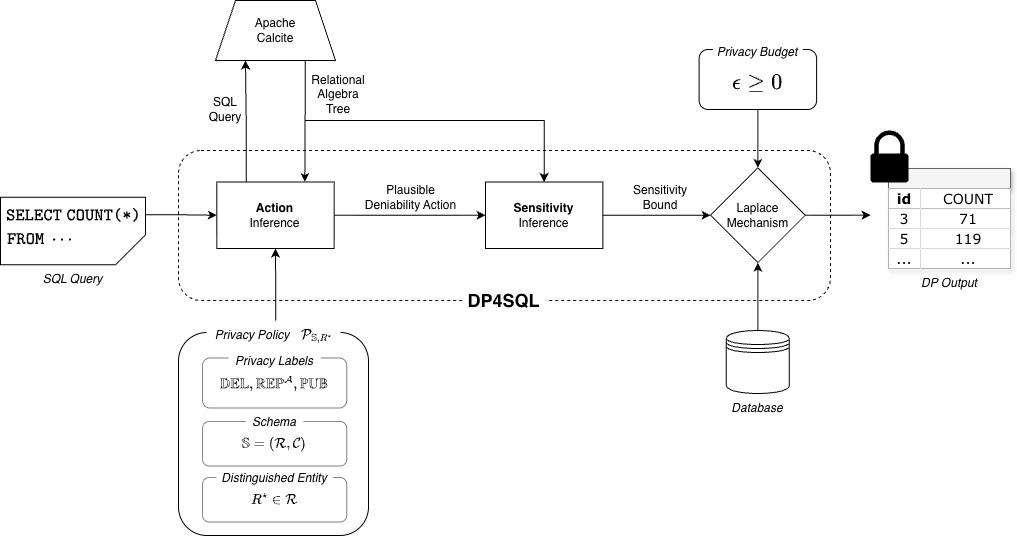
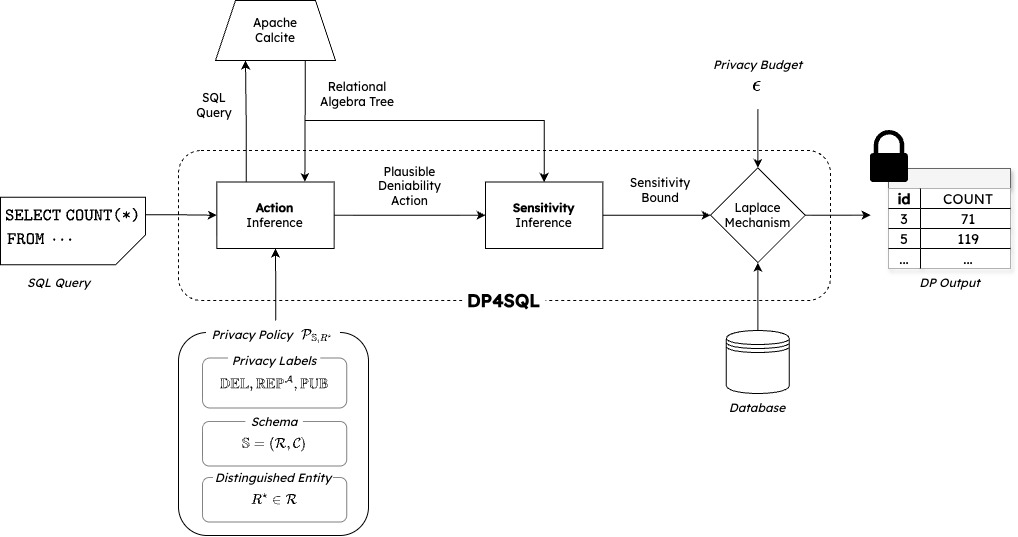
Update README

diff --git a/README.md b/README.md
@@ -1,15 +1,6 @@
 # DP4SQL
 
-This repository contains the artifact to reproduce the results presented in the paper 
-"DP4SQL: Differentially Private SQL with Flexible Privacy Policies".
-
-## Introduction
-
-DP4SQL is a differentially private SQL system that allows data curators to better customize the plausible deniability requirements for their relational databases. The user provides a SQL query, a privacy policy, and a privacy budget and DP4SQL computes a sufficient amount of noise that must be added to the query answer in order to satisfy $\epsilon$-differential privacy. We claim the following badges for the paper:
-
-- **Artifacts Available**: This atrifact is available permanently on Zenodo.
-- **Artifacts Evaluated** (Reusable): This artifact includes a built-in CLI and supports new schemas, queries, and privacy policies with the addition of just a few configuration files. See the [How to Reuse Beyond the Paper](#how-to-reuse-beyond-the-paper) section.
-- **Results Reproduced**: The results of the paper can be reproduced with this artifact. See the [How to Reproduce Results](#how-to-reproduce-results) section.
+DP4SQL is a differentially private SQL system that allows data curators to better customize the plausible deniability requirements for their relational databases. The user provides a SQL query, a privacy policy, and a privacy budget and DP4SQL computes a sufficient amount of noise that must be added to the query answer in order to satisfy $\epsilon$-differential privacy.
 
 ![image](architecture.jpg)
 
@@ -31,66 +22,9 @@ Alternatively, you may create a container from our Docker image which comes with
 docker pull casciand/dp4sql
 docker run -it casciand/dp4sql bash
 ```
+*Note: The image may not contain the latest updates.*
 
-## How to Reproduce Results
-
-The results of the case study (Section 8) and the TPC-H benchmark evaluation (Section 9) consist of global sensitivities and error distributions for each query for multiple privacy policies. The following shell scripts will regenerate these results. We have included configuration files for both the university and TPC-H schemas, privacy policies, and queries in this artifact.
-
-To reproduce the results from the case study, run
-
-```
-results/university.sh
-```
-
-To reproduce the results from the TPC-H evaluation, run
-
-```
-results/tpch.sh
-```
-
-Alternatively, you can reproduce the results directly with sbt
-
-```
-sbt "runMain CustomDP4SQL.Interface.QueryRunner src/main/resources/<schema>/config.yaml results/<schema>"
-```
-replacing `<schema>` with either "university" or "tpch".
-
-### Output
-
-For each query, DP4SQL outputs (1) a .csv file with the sensitivity for each privacy policy and (2) a .csv file with 50 noise samples for each privacy policy. The results will be written into the corresponding `results/university` and `results/tpch` directories. For example, `results/university/q1_sensitivity.csv` should look like
-
-```
-baseline1,360
-baseline2,792
-flex,240
-```
-
-and `results/university/q1_noise.csv` should look similar to
-
-```
-baseline1,83.0674652218098,-423.60851849226054,-288.8688599875297,-63.92622990966782,-315.7394433587932,21.686498649298432,56.557346164194854,358.64605373218177,277.5264363309026,140.1963618659992,-13.65969961319686,171.6512161329022,314.1887831192904,-502.6103120182816,-421.2925039419622,-648.5484475964354,-133.79052904047458,501.1745139267966,1216.804300303982,465.4517353794621,1405.5368547099781,601.4598805743996,27.086229868551346,244.29344114272624,-58.54648560894461,-87.29382930853393,-247.7246903046304,-980.8019443184879,201.90899405263485,40.70562343109878,250.20016964187138,1211.729287301483,-189.0897334358462,-37.69795741836771,274.8249593884004,-90.33099647415959,-88.65281205998149,665.9779691588346,-261.23556051237523,474.42038401623716,1342.144720325674,82.75019109635359,-115.28617393495847,180.33527280911898,-407.2020955820225,76.79545782467574,-573.4388540718492,231.0079327560549,-286.30476621595744,341.1630366747701
-baseline2,-733.6933665644121,1096.4946080957925,-2475.8327077895565,-500.9318706789012,23.18563556956579,1300.777226992643,54.72713981690339,1369.603589305693,-521.1332741527266,-323.80164050077224,-2264.843610521351,-509.83506710909927,523.3934704175674,467.4754781002984,-2831.147924114129,-448.9803731137849,-1341.5387542833755,-14.019939878349236,-62.378453875205416,-208.6848281424791,440.52996913241736,973.7843517106082,-1683.4999457415659,-2067.545516111776,-686.1846449234191,293.0851290186115,151.2524584287305,926.7053062963986,-1803.3193968399933,-649.6114679474477,-3516.296496762604,-1222.3477993752592,-218.52150360820858,-996.9844304776339,-193.56500773145888,2187.553479200061,-1250.5702314367488,2797.3102034427816,-13.055498838581412,-953.4055545593051,481.9187963253805,-260.3328872314126,-89.07978956956194,2324.7032739803226,-391.36457320007116,127.76926194485856,-2043.1051011892812,3330.069780768303,-211.72269588452284,-630.6287206569298
-flex,184.35634290717297,594.2428744293154,564.7925304718841,20.038134180133405,-379.88304771573354,-354.49414609228484,-440.7497089683576,-363.2249458443711,-107.43673146660385,506.4803385835038,-220.2446730386362,236.87628755822539,72.69792628498452,-56.17782944105488,539.1983481642811,-195.061386765267,23.281014798226842,27.779755523900505,313.63544737890345,76.49249771717827,293.01992075315576,-362.3198446014981,-46.41132096392419,-398.6792219349953,-470.5703553440461,192.69860424597886,-77.67501105187257,-206.39248696218425,288.8400654164171,366.3092545391848,467.7050894703357,55.699022602353494,-30.718121407389184,164.71374353416232,270.4266637565557,325.6781797567767,-294.928749696543,-286.1313688754309,750.2029714708727,98.16912300323696,33.243380817373136,55.325560843680925,-95.63023530762187,-121.05283202908647,-95.83648522118686,-227.36376129868904,18.61723744788842,36.8483905124813,-188.9632825940178,295.53262364562283
-```
-
-up to nondeterminism in exact noise values.
-
-### Reproducing Figures
-
-The Jupyter Notebook at ``results/generate_plots.ipynb`` was used to generate the sensitivity and
-error figures in the paper. These figures can be reproduced with
-
-```
-jupyter execute results/generate_plots.ipynb
-```
-
-which will save the figures in the `results/plots` directory.
-
-*Note: Reproduced error figures may vary slightly due to the inherent nondeterminism of drawing from a probability distribution. Any reproduced figure will still support the claims made in the paper.*
-
-### 
-
-## How to Reuse Beyond the Paper
+## Usage
 
 New schemas, queries, and privacy policies can be added in the `src/main/resources` directory as .yaml files. Examples can be found at `src/main/resources/university` and `src/main/resources/tpch`.
 
@@ -153,3 +87,23 @@ sbt "runMain CustomDP4SQL.Interface.CommandLineInterface <path_to_config>"
 ```
 
 replacing ``<path_to_config>`` with the path to your configuration file.
+
+## Citation
+
+```
+@inproceedings{dp4sql,
+    author = {Cascio, Andrew and Tong, KinChin and Kifer, Daniel and Ding, Zeyu and Zhang, Danfeng},
+    title = {DP4SQL: Differentially Private SQL with Flexible Privacy Policies},
+    year = {2026},
+    isbn = {9798400728716},
+    publisher = {Association for Computing Machinery},
+    address = {New York, NY, USA},
+    url = {https://doi.org/10.1145/3830454.3832666},
+    doi = {10.1145/3830454.3832666},
+    booktitle = {Proceedings of the 2026 ACM SIGSAC Conference on Computer and Communications Security},
+    pages = {5956–5970},
+    numpages = {15},
+    location = {The Hague, Netherlands},
+    series = {CCS '26}
+}
+```
